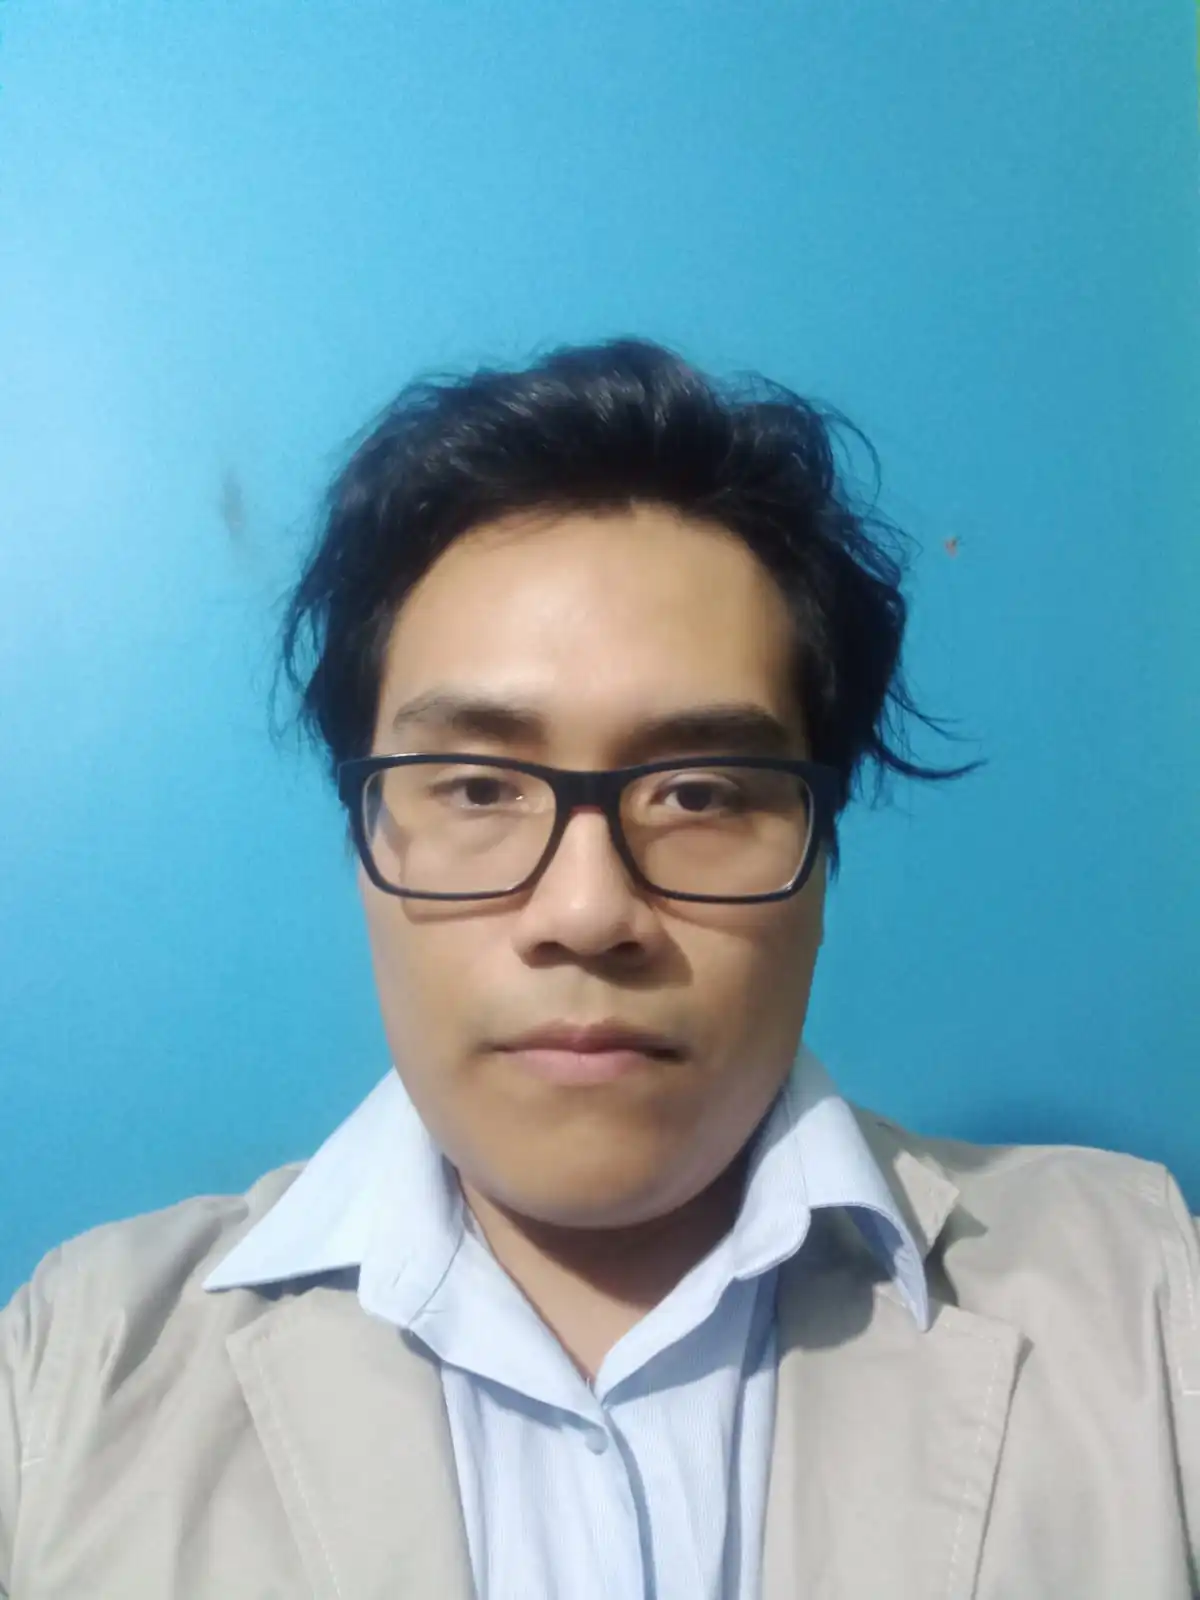
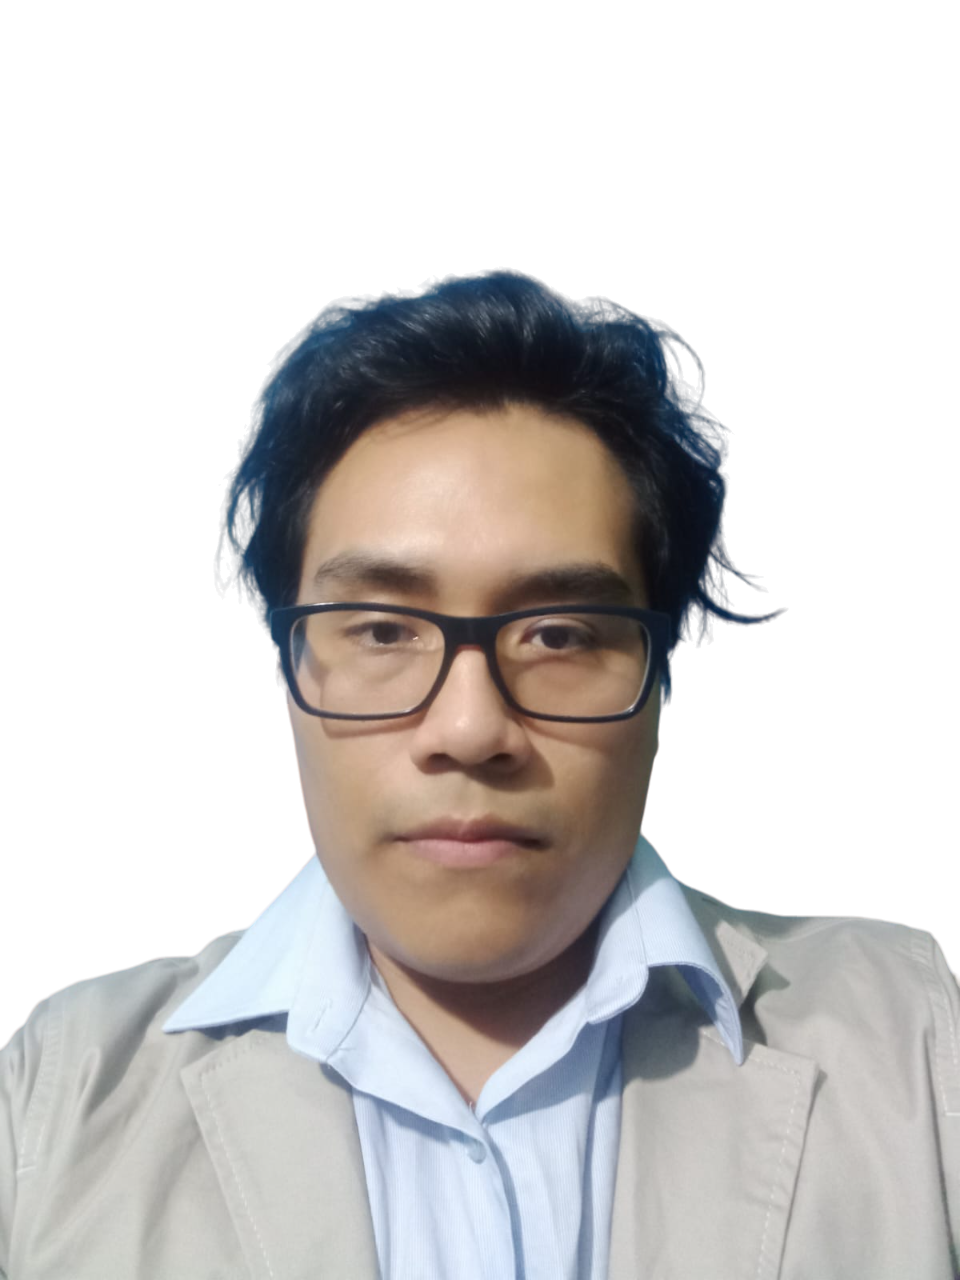
change style

diff --git a/index.html b/index.html
@@ -109,7 +109,7 @@
           </div>
         </div>
       </section>
-      <section id="about-me" class="mx-10 my-8 about-me max-sm:mx-4">
+      <section id="about-me" class="px-10 py-8 about-me max-sm:px-4 bg-slate-50">
         <div class="w-full">
           <div class="w-full h-fit flex">
             <div class="w-2 h-auto bg-violet-500 mr-5"></div>
@@ -140,20 +140,28 @@
               </p>
             </div>
             <div>
-              <div
-                class="w-2/5 photo p-2 bg-violet-500 rounded-full overflow-hidden flex"
-              >
-                <div
-                  class="w-full h-full bg-white rounded-full overflow-hidden"
-                >
+              <div class="w-2/5 photo relative">
+                <div class="w-full h-full bg-violet-500 flex relative"></div>
+                <div class="w-full h-full bg-white photo absolute ml-5 mt-5 top-0">
                   <img src="./img/foto.webp" class="h-full w-full" />
                 </div>
+                
               </div>
-              <div class="w-full mt-3 flex justify-center items-center space-x-3">
-                <a class="bg-blue-500 w-10 h-10 flex justify-center items-center rounded-md" href="https://www.linkedin.com/in/luciano-mardonio-lopez-duran-0b9334160" target="_blank">
+              <div
+                class="w-full mt-10 flex justify-center items-center space-x-3"
+              >
+                <a
+                  class="bg-blue-500 w-10 h-10 flex justify-center items-center rounded-md"
+                  href="https://www.linkedin.com/in/luciano-mardonio-lopez-duran-0b9334160"
+                  target="_blank"
+                >
                   <i class="fab fa-linkedin text-3xl text-white"></i>
                 </a>
-                <a class="bg-gray-700 w-10 h-10 flex justify-center items-center rounded-md" href="https://github.com/luclozdun" target="_blank">
+                <a
+                  class="bg-gray-700 w-10 h-10 flex justify-center items-center rounded-md"
+                  href="https://github.com/luclozdun"
+                  target="_blank"
+                >
                   <i class="fab fa-github text-3xl text-white"></i>
                 </a>
               </div>
@@ -266,7 +274,7 @@
           </div>
         </div>
       </section>
-      <section id="projects" class="mx-10 my-8 projects max-sm:mx-4">
+      <section id="projects" class="px-10 py-8 projects max-sm:px-4 bg-slate-50">
         <div class="w-full">
           <div class="w-full h-fit flex mb-5">
             <div class="w-2 h-auto bg-violet-500"></div>
@@ -560,9 +568,11 @@
             "grid-cols-1",
             "gap-5",
             "border",
-            "border-gray-100",
-            "border-4",
-            "mb-5"
+            "border-slate-200",
+            "border-1",
+            "mb-5",
+            "bg-white",
+            "rounded-lg"
           );
 
           var cookies = "";
@@ -579,7 +589,7 @@
           value.links?.forEach((link, li) => {
             links += `<a class=" px-4 py-2 rounded-md ${link?.class}" target="_blank" href="${link?.href}">${link?.description}</a>`;
           });
-          
+
           section.innerHTML = `
             <div class="p-5 grid grid-cols-2 max-xl:grid-cols-1 text-justify max-sm:p-1">
                 <div class="space-y-8 mx-14 max-md:mx-3">

diff --git a/css/style.css b/css/style.css
@@ -25,7 +25,7 @@
 }
 
 .about-me .photo{
-    width: 220px;
+    width: 210px;
     height: 290px;
 }
 
